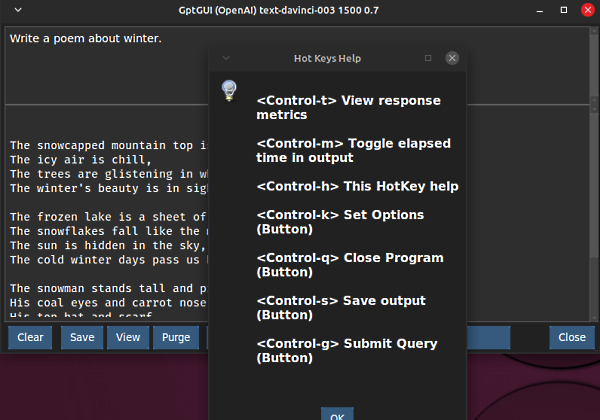
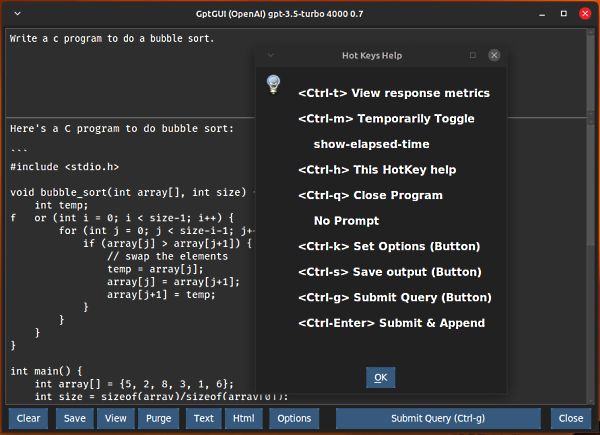
updates

diff --git a/gptgui.py b/gptgui.py
@@ -1,12 +1,16 @@
 '''
-code file: gptgui_35.py
+code file: gptgui.py
 date: 3-15-2023 add gpt-3.5-turbo
+date: 3-29-2023 add markdown to browser
+date: 3-31-2023 add text to editor
 '''
 import os
 import sys
 import time
 import configparser
 import subprocess
+import webbrowser
+import markdown
 from tkinter.font import Font
 from tkinter import messagebox
 from ttkbootstrap import *
@@ -74,22 +78,35 @@ class Application(Frame):
         clear = Button(btn_frame, text='Clear', command=self.on_clear_all)
         clear.grid(row=1, column=2, sticky='w',
                    pady=(5, 0), padx=(5, 7))
+
         self.save = Button(btn_frame, text='Save', command=self.on_save_file)
         self.save.grid(row=1, column=3, sticky='w',
                    pady=(5, 0), padx=5)
+
         view = Button(btn_frame, text='View', command=self.on_view_file)
         view.grid(row=1, column=4, sticky='w',
                    pady=(5, 0))
+
         purge = Button(btn_frame, text='Purge', command=self.on_purge)
         purge.grid(row=1, column=5, sticky='w',
                    pady=(5, 0), padx=5)
+
+        self.open = Button(btn_frame, text='Text', command=self.on_md_open)
+        self.open.grid(row=1, column=6, sticky='w',
+                     pady=(5, 0), padx=5)
+
+        self.md = Button(btn_frame, text='Html', command=self.on_md_render)
+        self.md.grid(row=1, column=7, sticky='w',
+                     pady=(5, 0), padx=(0, 5))
+
         opts = Button(btn_frame, text='Options', command=self.options)
-        opts.grid(row=1, column=6, sticky='w',
+        opts.grid(row=1, column=8, sticky='w',
                    pady=(5, 0), padx=5)
+
         self.sub = Button(btn_frame,
                      text='Submit Query (Ctrl-g)',
                      command=self.on_submit, width=35)
-        self.sub.grid(row=1, column=7, sticky='w',
+        self.sub.grid(row=1, column=9, sticky='w',
                    pady=(5, 0), padx=(20, 0))
 
        # END BUTTON FRAME
@@ -145,6 +162,12 @@ class Application(Frame):
                 bootstyle=(INFO))
         ToolTip(self.sub,
                 text="Ctrl-Enter to Append",
+                bootstyle=(INFO))
+        ToolTip(self.md,
+                text="markdown to browser",
+                bootstyle=(INFO))
+        ToolTip(self.open,
+                text="markdown to editor",
                 bootstyle=(INFO))
 
         if MySave == "1":
@@ -204,9 +227,7 @@ class Application(Frame):
                     temperature=float(MyTemp),
                     messages = [{"role": "user", "content" : querytext.strip()}]
                 )
-                # print("gpt-3.5-turbo")
-            else:
-                # print("Completion models")
+            else:  # print("Completion models")
                 response = openai.Completion.create(
                     model=MyModel,
                     prompt=querytext.strip(),
@@ -230,7 +251,7 @@ class Application(Frame):
             # display response text
             if MyTime == "1" and MyModel != "text-davinci-edit-001":
                 self.elapsed = (time.time() - start)
-                output = f"elapsed time: {round(self.elapsed, 5)}\n-----" + output
+                output = f"elapsed time: {round(self.elapsed, 5)}\n-----\n" + output
             if renderStyle != "Return":
                 self.txt.delete("1.0", END)
                 self.txt.insert("1.0", output)
@@ -326,8 +347,9 @@ class Application(Frame):
         msg = "text length: " + str(self.length) + \
               "\ncompletion tokens: " + str(self.completion) + \
               "\ntotal tokens: " + str(self.total) + \
-              "\nprompt tokens: " + str(self.prompt) + \
-              "\nResponse Time Elapsed: " + str(self.elapsed)
+              "\nprompt tokens: " + str(self.prompt)
+        if MyTime == "1":
+            msg += "\nResponse Time Elapsed: " + str(self.elapsed)
         messagebox.showinfo("GptGUI Response Tokens", msg)
 
     def on_toggle_time(self, e=None):
@@ -339,6 +361,45 @@ class Application(Frame):
             MyTime = "1"
         messagebox.showinfo("Toggle Show Elapsed Time",
                             "    Set to " + MyTime + "       ")
+
+    def getmdtext(self):
+        ''' get all or selected text '''
+        if self.txt.tag_ranges("sel"):
+            text = self.txt.selection_get()
+        else:  # Select All
+            self.txt.focus()
+            self.txt.tag_add(SEL, '1.0', END)
+            self.txt.mark_set(INSERT, '1.0')
+            self.txt.see(INSERT)
+            if self.txt.tag_ranges("sel"):
+                text = self.txt.selection_get()
+                self.txt.tag_remove(SEL, "1.0", END)
+        return text
+
+    def on_md_open(self, e=None):
+        ''' open txt (MD) in your text editor '''
+        text = self.getmdtext()
+        filename = os.getcwd() + '/' + MyFile
+        print(filename)
+        with open(filename, 'w') as f:
+            f.write(text)
+        print(filename, MyEditor)
+        subprocess.Popen([MyEditor, filename])
+
+    def on_md_render(self, e=None):
+        ''' render txt (MD) to html and show window '''
+        text = self.getmdtext()
+        # convert MD to HTML
+        H = markdown.markdown(text,
+                              extensions=['fenced_code'])
+        # write to file
+        filename = os.getcwd() + '/' + MyFile + '.html'
+        print(filename)
+        with open(filename, 'w') as f:
+            f.write(H)
+        # open file in browser
+        webbrowser.open_new_tab('file:///' + filename)
+
 
     def on_kb_help(self, e=None):
         ''' display hot keys message '''
@@ -465,10 +526,13 @@ MyFntGptZ = config['Main']['fontgptsiz']
 MyModel = config['Main']['engine']
 MyTemp = config['Main']['temperature']
 MyTokens = config['Main']['tokens']
-MyKey = config['Main']['gptkey']  # can be actual key or ENV var.
+MyKey = config['Main']['gptkey']
 MyTime = config['Main']['showtime']
 MySave = config['Main']['autosave']
+MyEditor = config['Main']['editor']
+MyFile = config['Main']['tempfile']
 TOPFRAME = int(config['Main']['top_frame'])
+
 if len(MyKey) < 16:
     MyKey = os.environ.get(MyKey)  # Using ENV var instead of actual key string.
 
@@ -490,7 +554,7 @@ else:
     root.geometry("675x505") # WxH+left+top
 
 root.protocol("WM_DELETE_WINDOW", save_location)  # TO SAVE GEOMETRY INFO
-root.minsize(768, 325)  # width, height
+root.minsize(875, 325)  # width, height
 Sizegrip(root).place(rely=1.0, relx=1.0, x=0, y=0, anchor='se')
 
 Application(root)

diff --git a/gptopt.py b/gptopt.py
@@ -66,6 +66,12 @@ class Application(Frame):
         lbl = Label(self, text='Top Frame Size')
         lbl.grid(row=13, column=1, sticky='e', pady=4, padx=4)
 
+        lbl = Label(self, text='Text editor')
+        lbl.grid(row=14, column=1, sticky='e', pady=4, padx=4)
+
+        lbl = Label(self, text='Temp file name')
+        lbl.grid(row=15, column=1, sticky='e', pady=4, padx=4)
+
         self.vent_theme = StringVar()
         ent_theme = Combobox(self, textvariable=self.vent_theme, width=10)
         ent_theme['values'] = ('darkly',
@@ -148,6 +154,14 @@ class Application(Frame):
         ent_size = Entry(self, textvariable=self.vent_size, width=4)
         ent_size.grid(row=13, column=2, sticky='w', pady=4, padx=4)
 
+        self.vent_edit = StringVar()
+        ent_edit = Entry(self, textvariable=self.vent_edit)
+        ent_edit.grid(row=14, column=2, sticky='w', pady=4, padx=4)
+
+        self.vent_file = StringVar()
+        end_file = Entry(self, textvariable=self.vent_file)
+        end_file.grid(row=15, column=2, sticky='w', pady=4, padx=4)
+
         btn_path = Button(self, text='Browse', command=self.browse_path)
         btn_path.grid(row=2, column=3, pady=4, padx=4)
 
@@ -158,7 +172,7 @@ class Application(Frame):
         btn_gfont.grid(row=5, column=3, pady=4, padx=4)
 
         btn_close = Button(self, text='Save & Close', command=self.on_close)
-        btn_close.grid(row=16, column=2, pady=4, padx=4)
+        btn_close.grid(row=15, column=3, pady=4, padx=4)
 
         # set initial field values from ini file
         self.vent_theme.set(MyTheme)
@@ -174,7 +188,8 @@ class Application(Frame):
         self.vcb.set(MyTime)
         self.vcv.set(MySave)
         self.vent_size.set(MySize)
-
+        self.vent_edit.set(MyEditor)
+        self.vent_file.set(MyFile)
 
     def browse_path(self):
         ''' browse with filedialog for directory '''
@@ -213,6 +228,8 @@ class Application(Frame):
         config['Main']['showtime'] = str(self.vcb.get())
         config['Main']['autosave'] = str(self.vcv.get())
         config['Main']['top_frame'] = str(self.vent_size.get())
+        config['Main']['editor'] = str(self.vent_edit.get())
+        config['Main']['tempfile'] = str(self.vent_file.get())
 
         with open('gptgui.ini', 'w') as configfile:
             config.write(configfile)
@@ -245,6 +262,8 @@ MyKey = config['Main']['gptkey']
 MyTime = config['Main']['showtime']
 MySave = config['Main']['autosave']
 MySize = config['Main']['top_frame']
+MyEditor = config['Main']['editor']
+MyFile = config['Main']['tempfile']
 
 # change working directory to path for this file
 p = os.path.realpath(__file__)

diff --git a/README.md b/README.md
@@ -1,7 +1,8 @@
 # GptGUI
 _Python GUI for Linux or Windows to access OpenAI Gpt Engine._
 
-___Now handles text-davinci-003 and gpt-3.5-turbo___
+___Now handles text-davinci-003 and gpt-3.5-turbo___  
+make sure to _pip install_ the latest _openai_ module
 
 ## Instalation
 
@@ -51,12 +52,12 @@ Then click the _Save & Close_ button.
 The options are stored in a plain text file called _gptgui.ini_.  
 If you prefer you could change the settings with a text editor.
 
-The height of the query text area (top frame) can be lengthened
+The height of the query text area (top frame) can be lengthened  
 or shortened by accessing the right-click menu.
 
 ---
 
-### Using
+### Buttons
 
 ![alttext](images/gptgui.png "Ctrl-t for Response Metrics")
 
@@ -74,6 +75,11 @@ the options which automatically saves each query/response.
 > Displays the _save_ file you set up in Options (gptgui.ini).
 - Purge
 > Clears the contens of the _save_ file.
+- Text
+> Opens the current response or selection in your text editor.  
+Set up the name of your text editor in the options.
+- Html
+> Opens the current response or selection in your default browser.
 - Options
 > launches the Options editor program.
 - Close
